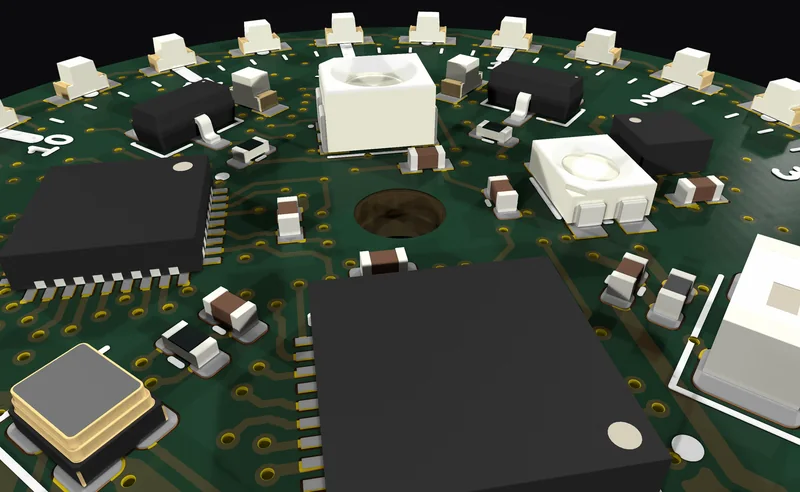
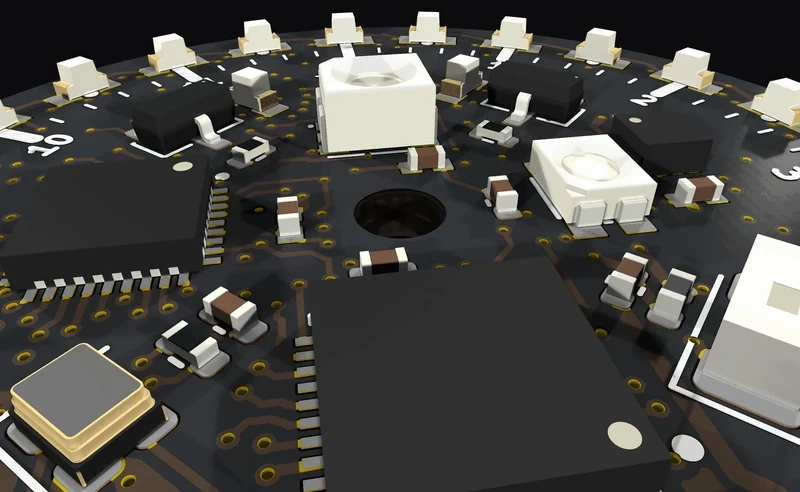
Website better

diff --git a/Website/src/main.js b/Website/src/main.js
@@ -30,6 +30,117 @@ thumbs.forEach((thumb) => {
   });
 });
 
+// "Register interest above" link: back to the top, focus the header button.
+document.querySelectorAll("[data-register-up]").forEach((link) => {
+  link.addEventListener("click", (e) => {
+    const target = document.querySelector(".btn-header");
+    if (!target) return;
+    e.preventDefault();
+    window.scrollTo({ top: 0, behavior: "smooth" });
+    target.focus({ preventScroll: true });
+  });
+});
+
+// Hero: a red light travels round the ring of 24 LEDs as the page scrolls.
+// LED positions (in hero.webp pixels, clockwise from 12) come from the board layout.
+import ringLeds from "./ring-leds.json";
+
+const ring = document.querySelector("[data-hero-ring]");
+if (ring) {
+  const NS = "http://www.w3.org/2000/svg";
+  ring.innerHTML = `<defs>
+    <radialGradient id="ledHalo"><stop offset="0" stop-color="#ff4a36" stop-opacity="1"/><stop offset="0.3" stop-color="#ff2a1a" stop-opacity="0.6"/><stop offset="0.65" stop-color="#ff1a0a" stop-opacity="0.18"/><stop offset="1" stop-color="#ff1a0a" stop-opacity="0"/></radialGradient>
+    <radialGradient id="ledCore"><stop offset="0" stop-color="#fff4f0"/><stop offset="0.5" stop-color="#ff5a44"/><stop offset="1" stop-color="#ff2a1a" stop-opacity="0"/></radialGradient>
+  </defs>`;
+  const leds = ringLeds.map(([x, y]) => {
+    const g = document.createElementNS(NS, "g");
+    g.setAttribute("class", "ring-led");
+    g.innerHTML = `<circle cx="${x}" cy="${y}" r="120" fill="url(#ledHalo)"/><circle cx="${x}" cy="${y}" r="30" fill="url(#ledCore)"/>`;
+    ring.appendChild(g);
+    return g;
+  });
+  const N = leds.length;
+  const media = ring.closest(".hero-media");
+  // Brightness of LED i when the light's head is at position h (0..N, clockwise).
+  const level = (h, i) => {
+    let a = (((h - i) % N) + N) % N; // how far LED i is behind the head
+    if (a > N - 1) return a - (N - 1); // next LED, fading in
+    if (a > h + 0.001) return 0; // no trail before the light has started moving
+    return Math.exp(-a / 2.2); // head and fading trail
+  };
+  const paint = (h) => leds.forEach((g, i) => { g.style.opacity = level(h, i).toFixed(3); });
+  const reduce = window.matchMedia("(prefers-reduced-motion: reduce)");
+  let queued = false;
+  const update = () => {
+    queued = false;
+    if (reduce.matches) { paint(0); return; }
+    // One full turn while the hero watch scrolls up out of view.
+    const span = Math.max(1, (media.offsetTop + media.offsetHeight) * 0.85);
+    const p = Math.min(Math.max(window.scrollY / span, 0), 1);
+    paint(p * N);
+  };
+  const onScroll = () => { if (!queued) { queued = true; requestAnimationFrame(update); } };
+  window.addEventListener("scroll", onScroll, { passive: true });
+  window.addEventListener("resize", onScroll);
+  reduce.addEventListener?.("change", onScroll);
+  update();
+}
+
+// White mechanical second hand, pivoting on the centre hole of hero.webp
+// (799.5, 800.5 in the 1600 image, from the board layout).
+const HAND_CX = 799.5, HAND_CY = 800.5;
+const HAND_REST = 245; // ~8:10, used when still (inside, or reduced motion)
+
+function handMarkup(id) {
+  return `<defs>
+    <linearGradient id="${id}-sheen" x1="0" y1="0" x2="1" y2="0">
+      <stop offset="0" stop-color="#c5c0b6"/>
+      <stop offset="0.4" stop-color="#f7f4ee"/>
+      <stop offset="0.55" stop-color="#ffffff"/>
+      <stop offset="1" stop-color="#b8b3a8"/>
+    </linearGradient>
+    <radialGradient id="${id}-cap" cx="38%" cy="32%" r="70%">
+      <stop offset="0" stop-color="#ffffff"/>
+      <stop offset="0.45" stop-color="#ece8e0"/>
+      <stop offset="1" stop-color="#9a958b"/>
+    </radialGradient>
+    <filter id="${id}-shadow" x="-40%" y="-10%" width="180%" height="140%">
+      <feDropShadow dx="3" dy="6" stdDeviation="3.5" flood-color="#000" flood-opacity="0.42"/>
+    </filter>
+  </defs>
+  <g class="seconds-hand-arm" filter="url(#${id}-shadow)" transform="rotate(${HAND_REST} ${HAND_CX} ${HAND_CY})">
+    <polygon points="796.2,800.5 802.8,800.5 806.5,972 799.5,1020 792.5,972" fill="url(#${id}-sheen)"/>
+    <circle cx="799.5" cy="988" r="20" fill="url(#${id}-sheen)"/>
+    <polygon points="799.5,248 803.6,800.5 799.5,808 795.4,800.5" fill="url(#${id}-sheen)"/>
+    <circle cx="799.5" cy="800.5" r="34" fill="url(#${id}-cap)" stroke="#d8c3a0" stroke-width="1.5"/>
+    <circle cx="799.5" cy="800.5" r="18" fill="#d8d4cc"/>
+    <circle cx="799.5" cy="800.5" r="7" fill="#8a867e"/>
+  </g>`;
+}
+
+const reduceMotion = window.matchMedia("(prefers-reduced-motion: reduce)");
+document.querySelectorAll("[data-seconds-hand]").forEach((svg, i) => {
+  svg.innerHTML = handMarkup(`hand${i}`);
+  const arm = svg.querySelector(".seconds-hand-arm");
+  const rest = Number(svg.dataset.secondsRest || HAND_REST);
+  const setAngle = (deg) => arm.setAttribute("transform", `rotate(${deg} ${HAND_CX} ${HAND_CY})`);
+  if (!svg.hasAttribute("data-seconds-live")) { setAngle(rest); return; }
+  // Smooth sweep, always running; scroll does not drive the hand.
+  let raf = 0;
+  const loop = () => {
+    if (reduceMotion.matches) {
+      cancelAnimationFrame(raf);
+      setAngle(rest);
+      return;
+    }
+    const d = new Date();
+    setAngle((d.getSeconds() + d.getMilliseconds() / 1000) * 6);
+    raf = requestAnimationFrame(loop);
+  };
+  reduceMotion.addEventListener?.("change", loop);
+  loop();
+});
+
 // Keep the footer year current.
 document.querySelectorAll("[data-year]").forEach((el) => {
   el.textContent = String(new Date().getFullYear());

diff --git a/Website/src/styles.css b/Website/src/styles.css
@@ -140,6 +140,19 @@ h2 {
   filter: blur(20px);
 }
 .hero-media img { width: 100%; max-height: calc(100vh - var(--header) - 2rem); object-fit: contain; }
+/* Slightly darker hero image so the lit LED reads as light. */
+.hero-media img { filter: brightness(0.8) saturate(0.95); }
+/* Scroll-driven red light travelling round the LED ring (built in main.js). */
+.hero-ring {
+  position: absolute; inset: 0; z-index: 2; width: 100%; height: 100%;
+  pointer-events: none; overflow: visible; mix-blend-mode: screen;
+}
+.hero-ring .ring-led { opacity: 0; will-change: opacity; }
+/* Mechanical second hand, centred on the shaft hole of hero.webp. */
+.seconds-hand {
+  position: absolute; inset: 0; z-index: 3; width: 100%; height: 100%;
+  pointer-events: none; overflow: visible;
+}
 .hero-panel { max-width: 30rem; }
 .product-name {
   margin: 0.9rem 0 0.6rem;
@@ -159,7 +172,6 @@ h2 {
   font-family: var(--serif); font-style: italic; font-weight: 300;
   font-size: clamp(1.25rem, 2vw, 1.6rem); color: var(--muted);
 }
-.fine { margin-top: 1.5rem; font-size: 0.8rem; color: var(--dim); }
 
 /* ---------- Closing summary ---------- */
 .closing {
@@ -176,10 +188,8 @@ h2 {
   filter: blur(24px);
 }
 .closing-media img { width: 100%; height: auto; }
-.closing-panel { max-width: 30rem; }
-.closing-panel h2 { margin-top: 0.9rem; }
-.closing-copy { margin-top: 1.25rem; color: var(--muted); }
-.closing-facts { margin: 2rem 0; border-top: 1px solid var(--line); }
+.closing-panel { width: 100%; max-width: 26rem; justify-self: start; }
+.closing-facts { margin: 0; border-top: 1px solid var(--line); }
 .closing-facts > div {
   display: flex; justify-content: space-between; gap: 1rem;
   padding: 0.9rem 0; border-bottom: 1px solid var(--line);
@@ -188,8 +198,8 @@ h2 {
   font-size: 0.72rem; letter-spacing: 0.22em; text-transform: uppercase; color: var(--dim);
   align-self: center;
 }
-.closing-facts dd { font-family: var(--serif); font-size: 1.2rem; }
-.closing-actions { display: flex; flex-wrap: wrap; gap: 0.75rem; }
+.closing-facts > div { padding: 1.4rem 0; }
+.closing-facts dd { font-family: var(--serif); font-size: clamp(1.3rem, 2vw, 1.6rem); }
 
 /* ---------- Statement ---------- */
 .statement {
@@ -280,6 +290,16 @@ h2 {
 .cta-mark { width: 64px; margin: 0 auto 2rem; opacity: 0.9; }
 .cta h2 { margin-bottom: 1rem; }
 .cta p { color: var(--muted); margin-bottom: 2.25rem; }
+.cta-up {
+  display: inline-flex; align-items: center; gap: 0.6rem;
+  font-size: 0.75rem; letter-spacing: 0.22em; text-transform: uppercase;
+  color: var(--accent); text-decoration: none;
+  padding: 0.5rem 0; border-bottom: 1px solid rgba(216, 195, 160, 0.4);
+  transition: color 0.3s var(--ease), border-color 0.3s var(--ease);
+}
+.cta-up span { transition: transform 0.3s var(--ease); }
+.cta-up:hover { color: var(--text); border-color: var(--text); }
+.cta-up:hover span { transform: translateY(-3px); }
 
 /* ---------- Footer ---------- */
 .site-footer { border-top: 1px solid var(--line); padding: 2.5rem var(--pad) 2rem; }
@@ -333,7 +353,7 @@ h2 {
   .hero-panel { margin: 0 auto; }
   .closing { grid-template-columns: 1fr; }
   .closing-media { max-width: 560px; margin: 0 auto; width: 100%; }
-  .closing-panel { margin: 0 auto; width: 100%; }
+  .closing-panel { margin: 0 auto; justify-self: center; }
   .story { grid-template-columns: 1fr; }
   .story-reverse .story-media { order: 0; }
   .story-text { max-width: none; }
@@ -349,7 +369,6 @@ h2 {
   .gallery-stage { aspect-ratio: 1 / 1; }
   .gallery-thumbs { grid-template-columns: repeat(2, minmax(0, 1fr)); }
   .specs-grid { grid-template-columns: 1fr; }
-  .closing-actions .btn { flex: 1 1 100%; }
   .header-right { gap: 1rem; }
   .btn-header { min-height: 2.1rem; padding: 0 0.85rem; font-size: 0.62rem; letter-spacing: 0.14em; }
   .footer-inner { flex-direction: column; text-align: center; }
@@ -461,6 +480,7 @@ h2 {
   fill: none; stroke: rgba(0, 0, 0, 0.55); stroke-width: 3.5;
   vector-effect: non-scaling-stroke;
 }
+.inside-media .seconds-hand { z-index: 1; }
 .inside-media {
   position: absolute; top: 0; bottom: 0; left: 18.75%; width: 62.5%;
 }

diff --git a/Website/index.html b/Website/index.html
@@ -45,9 +45,11 @@
             sizes="(min-width: 960px) 60vw, 100vw"
             width="1600"
             height="1600"
-            alt="Walton one, seen face-on, with its ring of lights around the dial"
+            alt="Walton one, seen face-on, with its ring of lights and a second hand"
             fetchpriority="high"
           />
+          <svg class="hero-ring" viewBox="0 0 1600 1600" preserveAspectRatio="xMidYMid meet" aria-hidden="true" data-hero-ring></svg>
+          <svg class="seconds-hand" viewBox="0 0 1600 1600" preserveAspectRatio="xMidYMid meet" aria-hidden="true" data-seconds-hand data-seconds-live></svg>
         </div>
         <div class="hero-panel">
           <!-- Model name: "Walton one", set as a two-line wordmark. To rename, edit it everywhere it appears. -->
@@ -144,7 +146,8 @@
           <div class="inside-media">
             <img src="/images/hero.webp" srcset="/images/hero-800.webp 800w, /images/hero.webp 1600w"
               sizes="(min-width: 900px) 640px, 92vw" width="1600" height="1600" loading="lazy"
-              alt="Walton one seen face-on, with its main features marked" />
+              alt="Walton one seen face-on, with its second hand and main features marked" />
+            <svg class="seconds-hand" viewBox="0 0 1600 1600" preserveAspectRatio="xMidYMid meet" aria-hidden="true" data-seconds-hand data-seconds-rest="245"></svg>
           </div>
           <div class="inside-pop" id="inside-pop" role="dialog" aria-labelledby="inside-pop-title" hidden>
             <h3 id="inside-pop-title"></h3>
@@ -244,28 +247,18 @@
         </div>
       </section>
 
-      <!-- CLOSING: summary, price and availability -->
-      <section class="closing" aria-labelledby="closing-title">
+      <!-- CLOSING: angled image with price and availability -->
+      <section class="closing" aria-label="Price and availability">
         <div class="closing-media">
           <img src="/images/hero_angle-800.webp" srcset="/images/hero_angle-800.webp 800w, /images/hero_angle.webp 1600w"
             sizes="(min-width: 900px) 560px, 92vw" width="1600" height="1254" loading="lazy"
             alt="Walton one, seen at an angle" />
         </div>
         <div class="closing-panel">
-          <p class="eyebrow">The watch</p>
-          <h2 id="closing-title">Walton one</h2>
-          <p class="closing-copy">
-            Classic hands at the center. A ring of twenty-four lights around them. A watch that
-            looks familiar from across the room and surprising up close.
-          </p>
           <dl class="closing-facts">
             <div><dt>Price</dt><dd>Price TBA</dd></div>
             <div><dt>Availability</dt><dd>Coming soon</dd></div>
           </dl>
-          <div class="closing-actions">
-            <a class="btn btn-ghost" href="#gallery">View gallery</a>
-          </div>
-          <p class="fine">Images are preview renderings. Photography coming soon.</p>
         </div>
       </section>
 
@@ -274,7 +267,7 @@
         <img class="cta-mark" src="/logo/w-logo-white.svg" alt="" width="64" height="51" loading="lazy" />
         <h2 id="cta-title">Questions, or want to be first in line?</h2>
         <p>We would love to hear from you.</p>
-        <a class="btn btn-primary" href="mailto:placeholder@example.com?subject=Walton%20Watches">Contact</a>
+        <a class="cta-up" href="#main" data-register-up>Register interest above <span aria-hidden="true">&uarr;</span></a>
       </section>
     </main>
 

diff --git a/Website/src/callouts.js b/Website/src/callouts.js
@@ -17,6 +17,12 @@ export const callouts = [
     x: 50.06, y: 37.19, side: "left", labelY: 44,
   },
   {
+    id: "seconds",
+    title: "Second hand",
+    text: "A slender white hand in the centre, driven by a Japanese quartz movement. It marks the seconds, while the lights show the hours and minutes.",
+    x: 50.0, y: 50.03, side: "left", labelY: 55,
+  },
+  {
     id: "brain",
     title: "The brain",
     text: "Brain of the device, reprogrammable for over the air software updates",

diff --git a/Website/about.html b/Website/about.html
@@ -78,7 +78,7 @@
       <section class="cta" aria-labelledby="cta-title">
         <h2 id="cta-title">Get in touch</h2>
         <p>Questions, ideas, or just want to say hello.</p>
-        <a class="btn btn-primary" href="mailto:placeholder@example.com?subject=Walton%20Watches">Contact</a>
+        <a class="cta-up" href="#main" data-register-up>Register interest above <span aria-hidden="true">&uarr;</span></a>
       </section>
     </main>
 

diff --git a/Website/README.md b/Website/README.md
@@ -19,15 +19,16 @@ Search the repo for `placeholder` (case-insensitive) to find them all.
 - **Model name: "Walton one".** Change it in `index.html` (title, hero, characteristics heading, image alt text, the mailto subject) and in `about.html` (image alt text).
 - **Price: "Price TBA"** and **Availability: "Coming soon"** in the hero of `index.html`.
 - **Characteristics marked "To be announced" / "Details to come"** (case, diameter, strap, water resistance, battery life, wireless) in `index.html`.
-- **"What's inside" callouts.** The six feature descriptions (LEDs, Multi-color LED, The brain, Motion sensor, Light sensor, Bluetooth) are placeholder copy. Edit the titles and text in `src/callouts.js`, the only place they live. The `x`/`y` values there are each part's position on `public/images/hero.webp` (in percent), measured from the board layout; update them if the hero image changes.
+- **Hero ring light.** As the page scrolls, a red light travels once round the ring of 24 LEDs on the hero image (`src/main.js`). The LED positions are in `src/ring-leds.json`, in `hero.webp` pixels clockwise from 12, taken from the board layout; update them if the hero image changes. Visitors who ask for reduced motion see a single lit LED at 12. A white mechanical second hand sits on the centre hole of the hero image and sweeps smoothly with the visitor's clock, independent of scroll (it stays still for reduced motion, and a still copy sits on the "What's inside" image). The red ring light is still driven only by scroll.
+- **"What's inside" callouts.** The seven feature descriptions (LEDs, Multi-color LED, Second hand, The brain, Motion sensor, Light sensor, Bluetooth) are placeholder copy. Edit the titles and text in `src/callouts.js`, the only place they live. The `x`/`y` values there are each part's position on `public/images/hero.webp` (in percent), measured from the board layout; update them if the hero image changes.
 - **Story copy.** The three story sections on Home are short, honest placeholder copy. Rewrite as you like.
 - **About page.** The intro line and the "Our story", "The maker" and "Craft" sections are italic placeholder text, marked with `<!-- Placeholder -->` comments.
-- **Images.** `public/images/` holds preview 3D renderings (`hero`, `hero_angle`, `detail`, `back`, each with an `-800` small version). Replace them with photos when you have them, keeping the same file names, or update the `src`/`srcset` paths. The reverse view (`back`) shows the board's printed labels; swap it for a case-back photo when there is one.
+- **Images.** `public/images/` holds preview 3D renderings (`hero`, `hero_angle`, `detail`, `back`, each with an `-800` small version). Replace them with photos when you have them, keeping the same file names, or update the `src`/`srcset` paths. The reverse view (`back`) shows the board's printed labels; swap it for a case-back photo when there is one. The "Images are preview renderings. Photography coming soon." note has been removed from the page, so nothing on the site currently says these are renderings; add a note back if you want one before real photos arrive.
 - **Logo.** `public/logo/w-logo-white.svg` (header, footer) and `public/logo/w-logo.svg` (uses `currentColor`). Favicon: `public/favicon.svg` and `public/apple-touch-icon.png`.
 
 Colors and fonts are at the top of `src/styles.css` (`:root`).
 
-`src/main.js` only handles the header background on scroll, the gallery thumbnails, the drawing/finished slider, the "What's inside" callouts (a small card that opens next to the clicked label or dot), and the footer year. It sends nothing anywhere.
+`src/main.js` only handles the header background on scroll, the gallery thumbnails, the drawing/finished slider, the hero second hand and ring light, the "What's inside" callouts (a small card that opens next to the clicked label or dot), and the footer year. It sends nothing anywhere.
 
 ## Run locally
 
